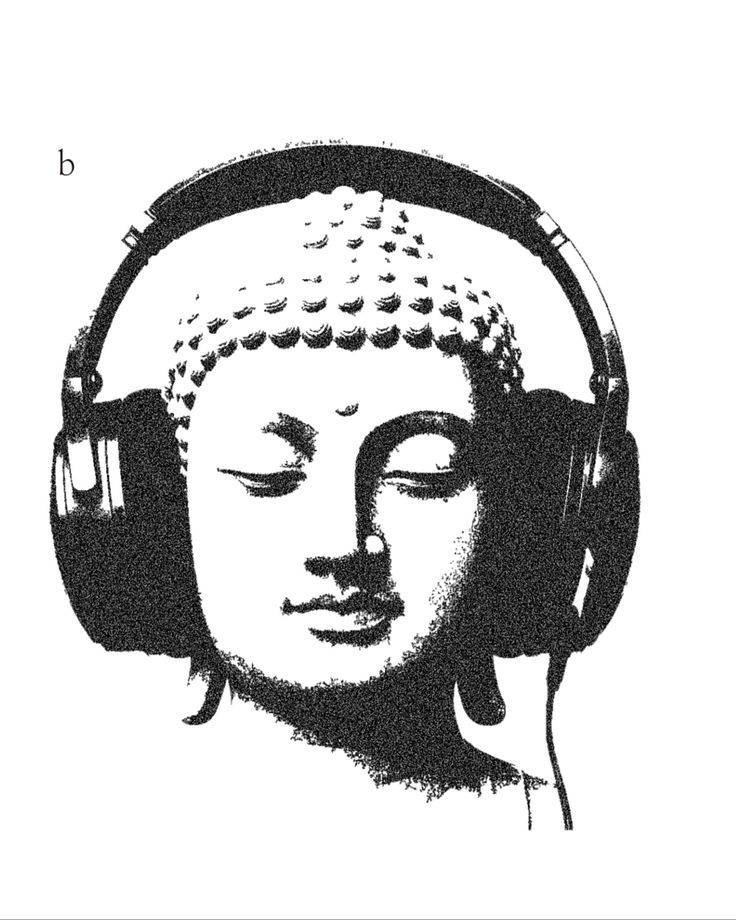
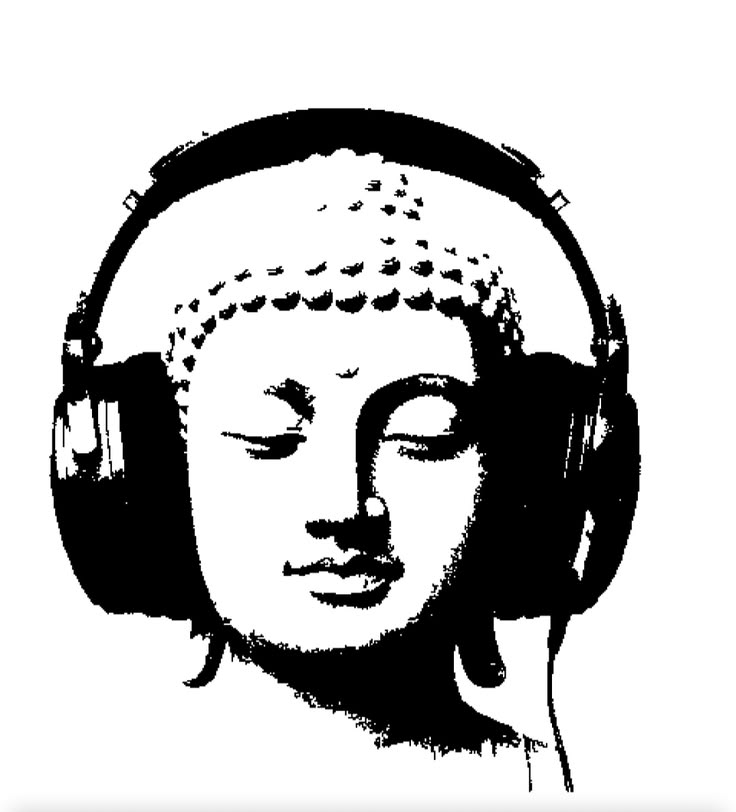
Auto-refresh every 5 min + on activation; updated art; debug sample-data loader
- Dashboard silently re-syncs every 5 minutes while open and immediately when
  the app becomes active (covers 'just submitted' without manual Sync).
- Updated the Touch Grass artwork (cleaner version).
- DEBUG: Settings > Debug > 'Load sample data' to exercise the UI offline.

Changed region(s): [[0.0625, 0.1232, 0.875, 0.9852], [0.2812, 0.431, 0.4375, 0.585], [0.0625, 0.1539, 0.0938, 0.1847]]

diff --git a/LowHangingFruitKit/Sources/LowHangingFruitApp/ContentView.swift b/LowHangingFruitKit/Sources/LowHangingFruitApp/ContentView.swift
@@ -8,10 +8,18 @@ struct ContentView: View {
     @EnvironmentObject var state: AppState
     @StateObject private var vm: DashboardViewModel
 
+    @Environment(\.scenePhase) private var scenePhase
+
     @State private var filter: DashFilter = .thisWeek
     @State private var editing: DashItem?
     @State private var showSettings = false
     @State private var isSyncing = false
+
+    /// How often to silently re-sync while the dashboard is open. 5 minutes is a
+    /// gentle cadence for an academic dashboard (assignments rarely change minute
+    /// to minute) and avoids hammering Gradescope; an immediate sync on app
+    /// activation covers the "I just submitted something" case.
+    private static let autoRefreshInterval: UInt64 = 5 * 60 * 1_000_000_000
 
     init(previewVM: DashboardViewModel? = nil) {
         _vm = StateObject(wrappedValue: previewVM ?? DashboardViewModel())
@@ -40,6 +48,17 @@ struct ContentView: View {
         }
         .background(Color.v2Bg.ignoresSafeArea())
         .onAppear { vm.bind(to: state) }
+        .task {
+            // Silent auto-refresh loop while the dashboard is on screen.
+            while !Task.isCancelled {
+                try? await Task.sleep(nanoseconds: Self.autoRefreshInterval)
+                if Task.isCancelled { break }
+                await refresh(showSpinner: false)
+            }
+        }
+        .onChange(of: scenePhase) { _, phase in
+            if phase == .active { Task { await refresh(showSpinner: false) } }
+        }
         .sheet(item: $editing) { item in
             EditDueSheet(
                 assignment: item.assignment,
@@ -108,17 +127,23 @@ struct ContentView: View {
         state.userName.isEmpty ? "Hello" : "Hello, \(state.userName)"
     }
 
-    /// Manual refresh: re-sync Canvas + Gradescope using the persisted session,
-    /// then reload the dashboard.
+    /// Manual refresh (header button): shows the spinner.
     private func syncNow() {
         guard !isSyncing else { return }
-        isSyncing = true
-        Task {
-            await state.syncIfConfigured()
-            await AutoSyncCoordinator.syncConnectedServices(state: state)
-            vm.reload(preservingEdits: true)
-            isSyncing = false
+        Task { await refresh(showSpinner: true) }
+    }
+
+    /// Re-sync Canvas + Gradescope using the persisted session, then reload the
+    /// dashboard. `showSpinner` is false for the silent auto-refresh.
+    private func refresh(showSpinner: Bool) async {
+        if showSpinner {
+            guard !isSyncing else { return }
+            isSyncing = true
         }
+        await state.syncIfConfigured()
+        await AutoSyncCoordinator.syncConnectedServices(state: state)
+        vm.reload(preservingEdits: true)
+        if showSpinner { isSyncing = false }
     }
 
     // MARK: List

diff --git a/LowHangingFruitKit/Sources/LowHangingFruitApp/AppState.swift b/LowHangingFruitKit/Sources/LowHangingFruitApp/AppState.swift
@@ -272,6 +272,17 @@ final class AppState: ObservableObject {
         laterAssignments = coursework.filter { Self.isLater($0) }
     }
 
+    #if DEBUG
+    /// Loads fake assignments (the preview fixtures) into the live store so the
+    /// UI can be exercised without connecting real Canvas/Gradescope accounts.
+    func loadSampleData() {
+        canvasItems = SampleData.items().map(\.assignment)
+        gradescopeAssignments = []
+        completedAssignmentIDs = []
+        rebuildDashboardItems()
+    }
+    #endif
+
     func markCompleted(_ assignment: Assignment) {
         completedAssignmentIDs.insert(assignment.id)
         persistCompletedIDs()

diff --git a/LowHangingFruitKit/Sources/LowHangingFruitApp/SettingsSheet.swift b/LowHangingFruitKit/Sources/LowHangingFruitApp/SettingsSheet.swift
@@ -69,6 +69,12 @@ struct SettingsSheet: View {
                     }
                 }
 
+                #if DEBUG
+                Section("Debug") {
+                    Button("Load sample data") { state.loadSampleData() }
+                }
+                #endif
+
                 if let notice = state.syncNotice ?? state.error {
                     Section {
                         Label(notice, systemImage: "exclamationmark.triangle")